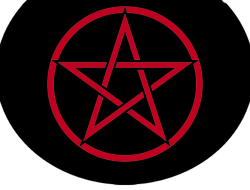
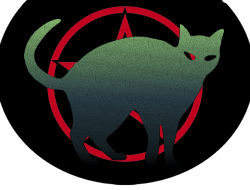
new art

Changed region(s): [[0.084, 0.0789, 0.896, 0.8684]]

diff --git a/src/main/java/witchmod/cards/familiar/BatFamiliar.java b/src/main/java/witchmod/cards/familiar/BatFamiliar.java
@@ -6,6 +6,7 @@ import com.megacrit.cardcrawl.cards.AbstractCard;
 import com.megacrit.cardcrawl.characters.AbstractPlayer;
 import com.megacrit.cardcrawl.dungeons.AbstractDungeon;
 import com.megacrit.cardcrawl.monsters.AbstractMonster;
+import com.megacrit.cardcrawl.powers.ArtifactPower;
 import com.megacrit.cardcrawl.powers.GainStrengthPower;
 import com.megacrit.cardcrawl.powers.StrengthPower;
 import com.megacrit.cardcrawl.powers.WeakPower;
@@ -38,7 +39,7 @@ public class BatFamiliar extends AbstractWitchCard{
 	public void use(AbstractPlayer p, AbstractMonster m) {
 		AbstractDungeon.actionManager.addToBottom(new ApplyPowerAction(m, p, new WeakPower(m, 1,false), 1));
 		AbstractDungeon.actionManager.addToBottom(new ApplyPowerAction(m, p, new StrengthPower(m, -magicNumber), -magicNumber));
-		if (!m.hasPower("Artifact")) {
+		if (!m.hasPower(ArtifactPower.POWER_ID) || m.getPower(ArtifactPower.POWER_ID).amount < 2) {
 			AbstractDungeon.actionManager.addToBottom(new ApplyPowerAction(m, p, new GainStrengthPower(m, magicNumber), magicNumber));
 		}
 	}

diff --git a/src/main/java/witchmod/cards/familiar/CatFamiliar.java b/src/main/java/witchmod/cards/familiar/CatFamiliar.java
@@ -14,7 +14,7 @@ import witchmod.cards.AbstractWitchCard;
 public class CatFamiliar extends AbstractWitchCard{
 	public static final String ID = "CatFamiliar";
 	public static final	String NAME = "Cat Familiar";
-	public static final	String IMG = "cards/placeholder_attack.png";
+	public static final	String IMG = "cards/cat.png";
 	public static final	String DESCRIPTION = "Ethereal. NL Deal !D! damage !M! times. NL Exhaust.";
 
 	private static final CardRarity RARITY = CardRarity.SPECIAL;

diff --git a/src/main/java/witchmod/cards/familiar/OwlFamiliar.java b/src/main/java/witchmod/cards/familiar/OwlFamiliar.java
@@ -12,7 +12,7 @@ import witchmod.cards.AbstractWitchCard;
 public class OwlFamiliar extends AbstractWitchCard{
 	public static final String ID = "OwlFamiliar";
 	public static final	String NAME = "Owl Familiar";
-	public static final	String IMG = "cards/placeholder_skill.png";
+	public static final	String IMG = "cards/owl.png";
 	public static final	String DESCRIPTION = "Ethereal. NL Draw !M! cards. NL Exhaust.";
 
 	private static final CardRarity RARITY = CardRarity.SPECIAL;
